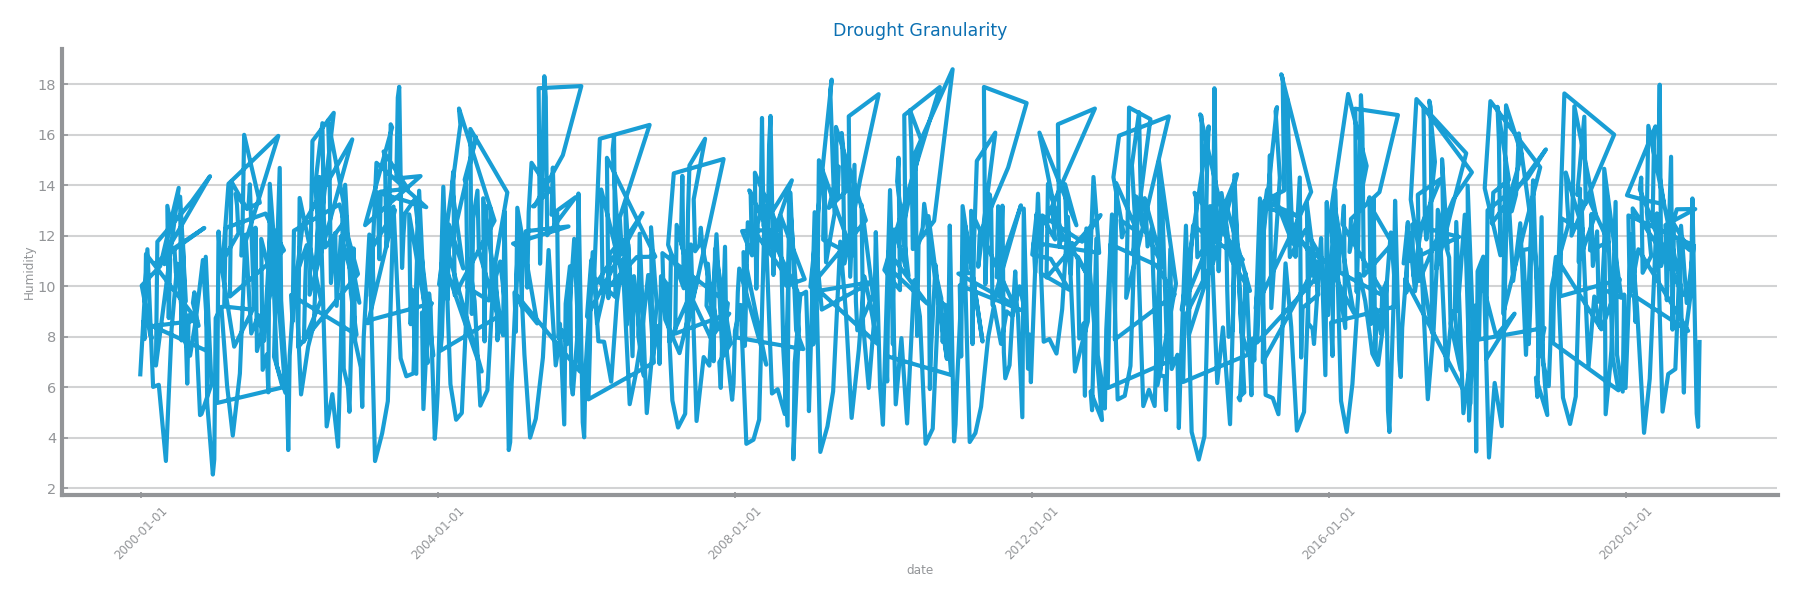
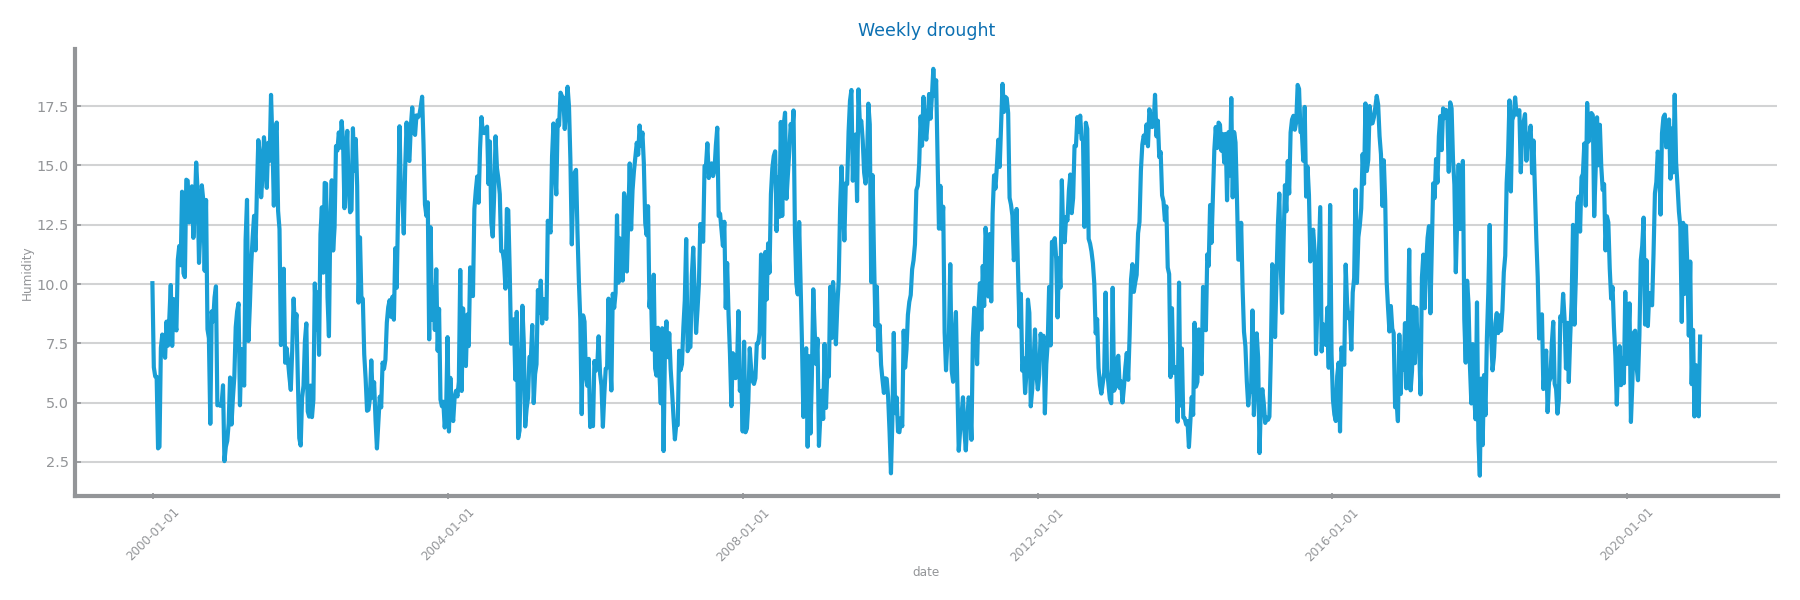
fixed profiling dataset 2

diff --git a/climate_domain/forecasting/analysis_and_preparation/profiling.py b/climate_domain/forecasting/analysis_and_preparation/profiling.py
@@ -3,12 +3,13 @@ from matplotlib.pyplot import figure, xticks, show, savefig, subplots, tight_lay
 from ts_functions import plot_series, HEIGHT
 from numpy import ones
 from pandas import Series
+from ds_charts import bar_chart
 
 file_path = f'../datasets/drought'
 
 target = 'QV2M'
 
-data = read_csv(f'{file_path}.csv', index_col='date', sep=',', decimal='.', parse_dates=True, infer_datetime_format=True)
+data = read_csv(f'{file_path}.csv', index_col='date', sep=',', decimal='.', parse_dates=True, infer_datetime_format=True, dayfirst=True)
 
 # remove non-target columns for profiling
 for column in data:
@@ -16,6 +17,8 @@ for column in data:
         data.drop(columns=column, inplace=True)
 # print(data.shape)
 
+# sort data by date
+data.sort_values(by=data.index.name, inplace=True)
 
 # ------------------- #
 # Data Dimensionality #
@@ -31,15 +34,14 @@ tight_layout()
 savefig(f'images/profiling/dimensionality.png')
 #show()
 
-
 # ---------------- #
 # Data Granularity #
 # ---------------- #
 
 # Daily 
-day_df = data.copy().groupby(data.index.date).mean()
+#day_df = data.copy().groupby(data.index.date).mean()
 figure(figsize=(3*HEIGHT, HEIGHT))
-plot_series(day_df, title='Drought Granularity', x_label='date', y_label='Humidity')
+plot_series(data, title='Daily drought', x_label='date', y_label='Humidity')
 xticks(rotation = 45)
 tight_layout()
 savefig(f'images/profiling/granularity_daily.png')
@@ -51,7 +53,7 @@ week_df = data.copy().groupby(index).mean()
 week_df['date'] = index.drop_duplicates().to_timestamp()
 week_df.set_index('date', drop=True, inplace=True)
 figure(figsize=(3*HEIGHT, HEIGHT))
-plot_series(week_df, title='Drought Granularity', x_label='date', y_label='Humidity')
+plot_series(week_df, title='Weekly drought', x_label='date', y_label='Humidity')
 xticks(rotation = 45)
 tight_layout()
 savefig(f'images/profiling/granularity_weekly.png')
@@ -63,22 +65,22 @@ month_df = data.copy().groupby(index).mean()
 month_df['date'] = index.drop_duplicates().to_timestamp()
 month_df.set_index('date', drop=True, inplace=True)
 figure(figsize=(3*HEIGHT, HEIGHT))
-plot_series(month_df, title='Drought Granularity', x_label='date', y_label='Humidity')
+plot_series(month_df, title='Monthly drought', x_label='date', y_label='Humidity')
 xticks(rotation = 45)
 tight_layout()
 savefig(f'images/profiling/granularity_monthly.png')
 # show()
 
 # Quarterly 
-index = data.index.to_period('Q')
-quarterly_df = data.copy().groupby(index).mean()
-quarterly_df['date'] = index.drop_duplicates().to_timestamp()
-quarterly_df.set_index('date', drop=True, inplace=True)
-figure(figsize=(3*HEIGHT, HEIGHT))
-plot_series(quarterly_df, title='Drought Granularity', x_label='date', y_label='Humidity')
-xticks(rotation = 45)
-tight_layout()
-savefig(f'images/profiling/granularity_quarterly.png')
+# index = data.index.to_period('Q')
+# quarterly_df = data.copy().groupby(index).mean()
+# quarterly_df['date'] = index.drop_duplicates().to_timestamp()
+# quarterly_df.set_index('date', drop=True, inplace=True)
+# figure(figsize=(3*HEIGHT, HEIGHT))
+# plot_series(quarterly_df, title='Drought Granularity', x_label='date', y_label='Humidity')
+# xticks(rotation = 45)
+# tight_layout()
+# savefig(f'images/profiling/granularity_quarterly.png')
 # show()
 
 
@@ -88,66 +90,79 @@ savefig(f'images/profiling/granularity_quarterly.png')
 
 index = data.index.to_period('W')
 week_df = data.copy().groupby(index).sum()
-week_df['date'] = index.drop_duplicates().to_timestamp()
-week_df.set_index('date', drop=True, inplace=True)
-_, axs = subplots(1, 2, figsize=(3*HEIGHT, HEIGHT/1.9))
+week_df['timestamp'] = index.drop_duplicates().to_timestamp()
+week_df.set_index('timestamp', drop=True, inplace=True)
+
+index = data.index.to_period('M')
+month_df = data.copy().groupby(index).sum()
+month_df['timestamp'] = index.drop_duplicates().to_timestamp()
+month_df.set_index('timestamp', drop=True, inplace=True)
+
+_, axs = subplots(1, 3, figsize=(2*HEIGHT, HEIGHT/2))
 axs[0].grid(False)
 axs[0].set_axis_off()
-axs[0].set_title('HOURLY', fontweight="bold")
+axs[0].set_title('DAILY', fontweight="bold")
 axs[0].text(0, 0, str(data.describe()))
+
 axs[1].grid(False)
 axs[1].set_axis_off()
 axs[1].set_title('WEEKLY', fontweight="bold")
 axs[1].text(0, 0, str(week_df.describe()))
+
+axs[2].grid(False)
+axs[2].set_axis_off()
+axs[2].set_title('MONTHLY', fontweight="bold")
+axs[2].text(0, 0, str(month_df.describe()))
+
+tight_layout()
 savefig(f'images/profiling/distribution_analysis.png')
+
 # show()
 
-_, axs = subplots(1, 2, figsize=(2*HEIGHT, HEIGHT))
-data.boxplot(ax=axs[0])
-week_df.boxplot(ax=axs[1])
+# Boxplot for the most atomic granularity
+_, axs = subplots(1, 1, figsize=(2*HEIGHT, HEIGHT))
+axs.title.set_text('DAILY')
+data.boxplot(ax=axs)
+tight_layout()
 savefig(f'images/profiling/distribution.png')
 # show()
-
 
 # ---------------------- #
 # Variables Distribution #
 # ---------------------- #
 
-bins = (5, 10, 15)
-_, axs = subplots(1, len(bins), figsize=(len(bins)*HEIGHT, HEIGHT))
-for j in range(len(bins)):
-    axs[j].set_title('Histogram for hourly meter_reading %d bins'%bins[j])
-    axs[j].set_xlabel('consumption')
-    axs[j].set_ylabel('Nr records')
-    axs[j].hist(data.values, bins=bins[j])
-savefig(f'images/profiling/variables_distribution_hourly.png')
-# show()
+bins = ('day', 'week', 'month')
+_, axs = subplots(1, len(bins), figsize=(len(bins)*HEIGHT*6, 3*HEIGHT))
 
-_, axs = subplots(1, len(bins), figsize=(len(bins)*HEIGHT, HEIGHT))
-for j in range(len(bins)):
-    axs[j].set_title('Histogram for weekly meter_reading %d bins'%bins[j])
-    axs[j].set_xlabel('consumption')
-    axs[j].set_ylabel('Nr records')
-    axs[j].hist(week_df.values, bins=bins[j])
-savefig(f'images/profiling/variables_distribution_weekly.png')
-# show()
+# Per days
+index = data.index.to_period('D')
+counts = index.to_series().astype(str).value_counts()
+print(counts)
+bar_chart(counts.index.to_list(), counts.values, ax=axs[0], title='Histogram for daily Glucose: 7671 bins', xlabel='glucose', ylabel='nr records', percentage=False)
+axs[0].tick_params(labelrotation=90)
 
-_, axs = subplots(1, len(bins), figsize=(len(bins)*HEIGHT, HEIGHT))
-for j in range(len(bins)):
-    axs[j].set_title('Histogram for monthly meter_reading %d bins'%bins[j])
-    axs[j].set_xlabel('consumption')
-    axs[j].set_ylabel('Nr records')
-    axs[j].hist(month_df.values, bins=bins[j])
-savefig(f'images/profiling/variables_distribution_monthly.png')
-# show()
+# Per weeks
+index = data.index.to_period('W')
+counts = index.to_series().astype(str).value_counts()
+print(counts)
+bar_chart(counts.index.to_list(), counts.values, ax=axs[1], title='Histogram for weekly Glucose: 1097 bins', xlabel='glucose', ylabel='nr records', percentage=False)
+axs[1].tick_params(labelrotation=90)
 
+# Per months
+index = data.index.to_period('M')
+counts = index.to_series().astype(str).value_counts()
+print(counts)
+bar_chart(counts.index.to_list(), counts.values, ax=axs[2], title='Histogram for monthly Glucose: 252 bins', xlabel='glucose', ylabel='nr records', percentage=False)
+axs[2].tick_params(labelrotation=90)
+
+tight_layout()
+savefig(f'images/profiling/variable_distribution_granularities.png')
 
 # ----------------- #
 # Data Stationarity #
 # ----------------- #
 
 dt_series = Series(data[target])
-mean_line = Series(ones(len(dt_series.values)) * dt_series.mean(), index=dt_series.index)
 
 BINS = 10
 line = []
@@ -158,7 +173,7 @@ for i in range(BINS):
     line += mean
 line += [line[-1]] * (n - len(line))
 mean_line = Series(line, index=dt_series.index)
-series = {'humidity': dt_series, 'mean': mean_line}
+series = {'values': dt_series, 'mean': mean_line}
 figure(figsize=(3*HEIGHT, HEIGHT))
 plot_series(series, x_label='date', y_label='Humidity', title='Stationary study', show_std=True)
 savefig(f'images/profiling/stationarity.png')
